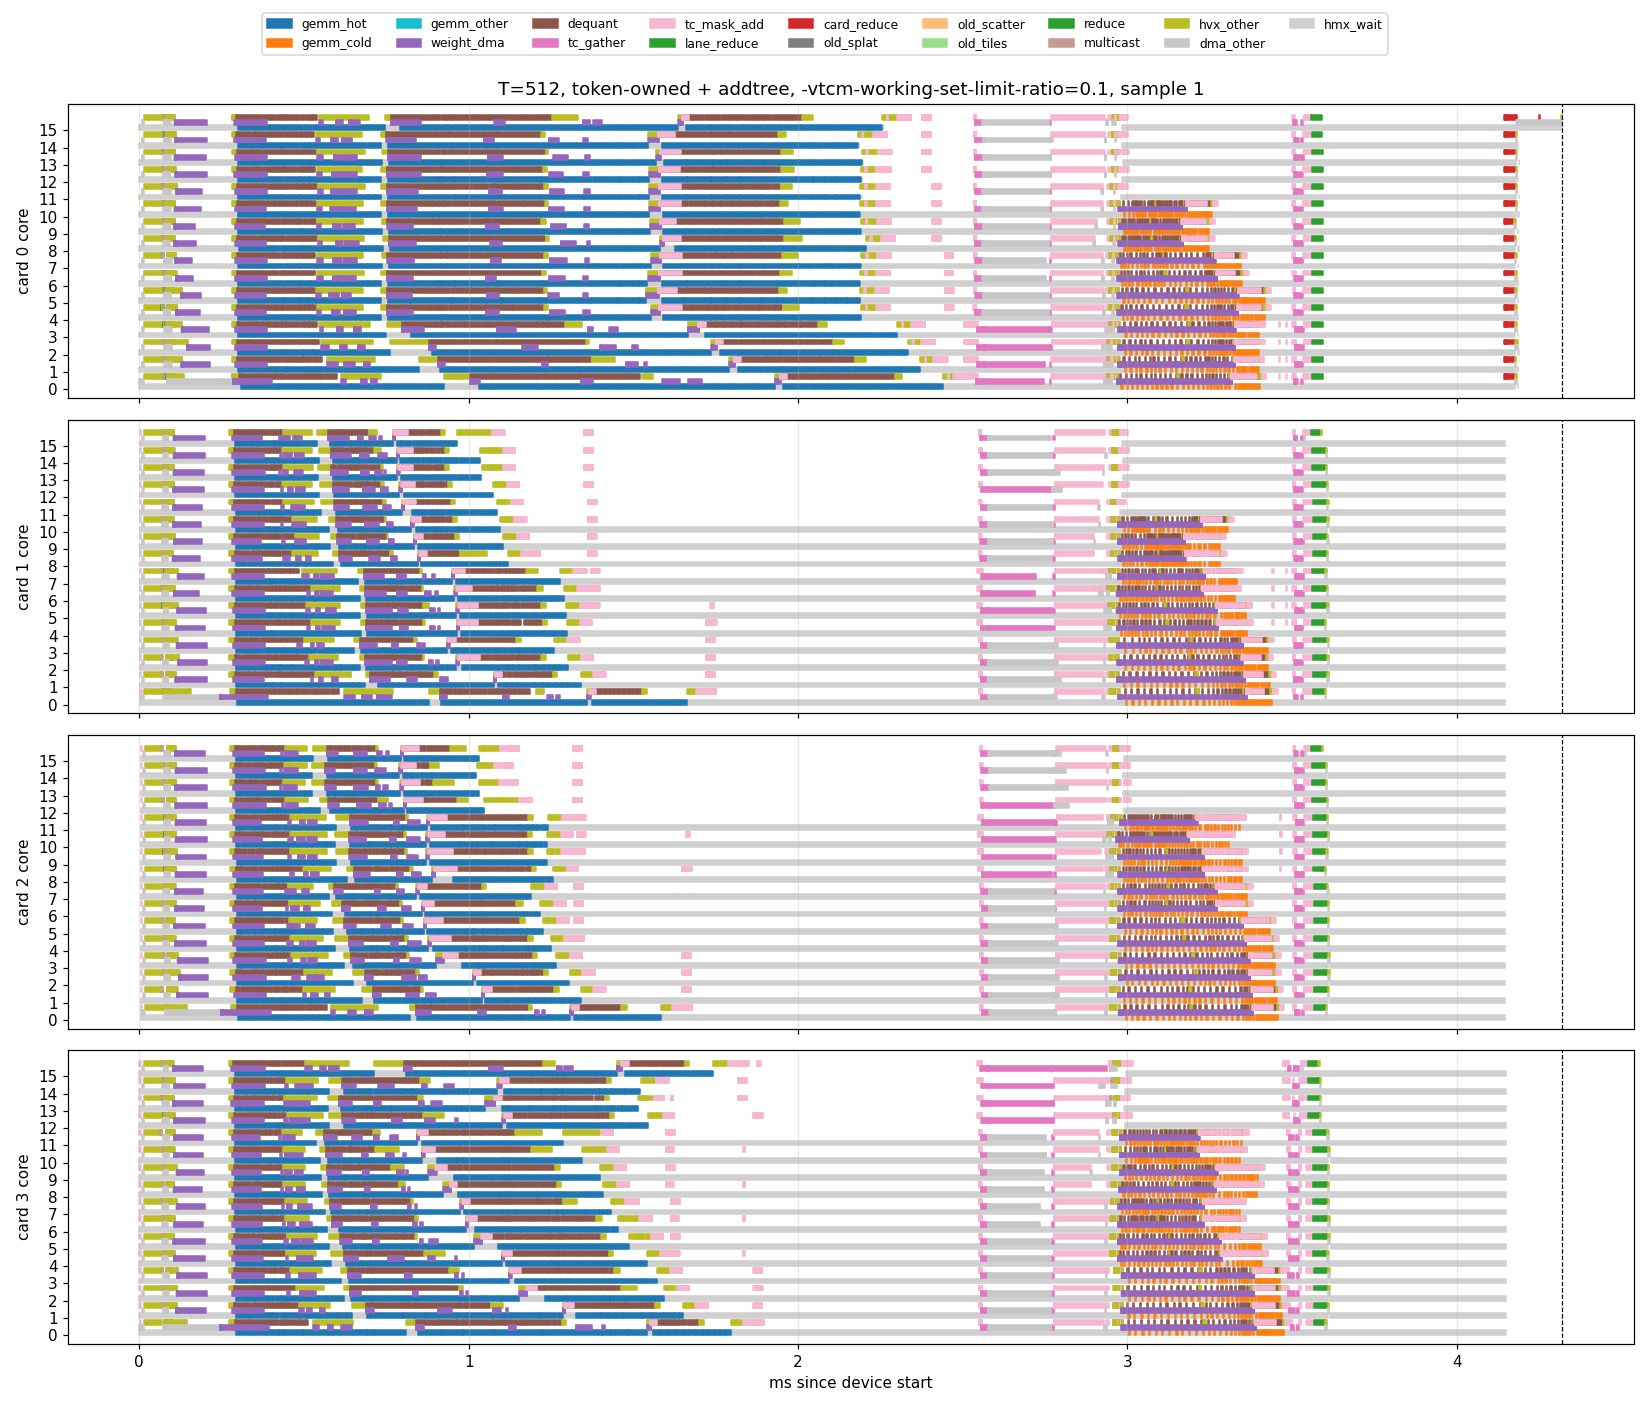
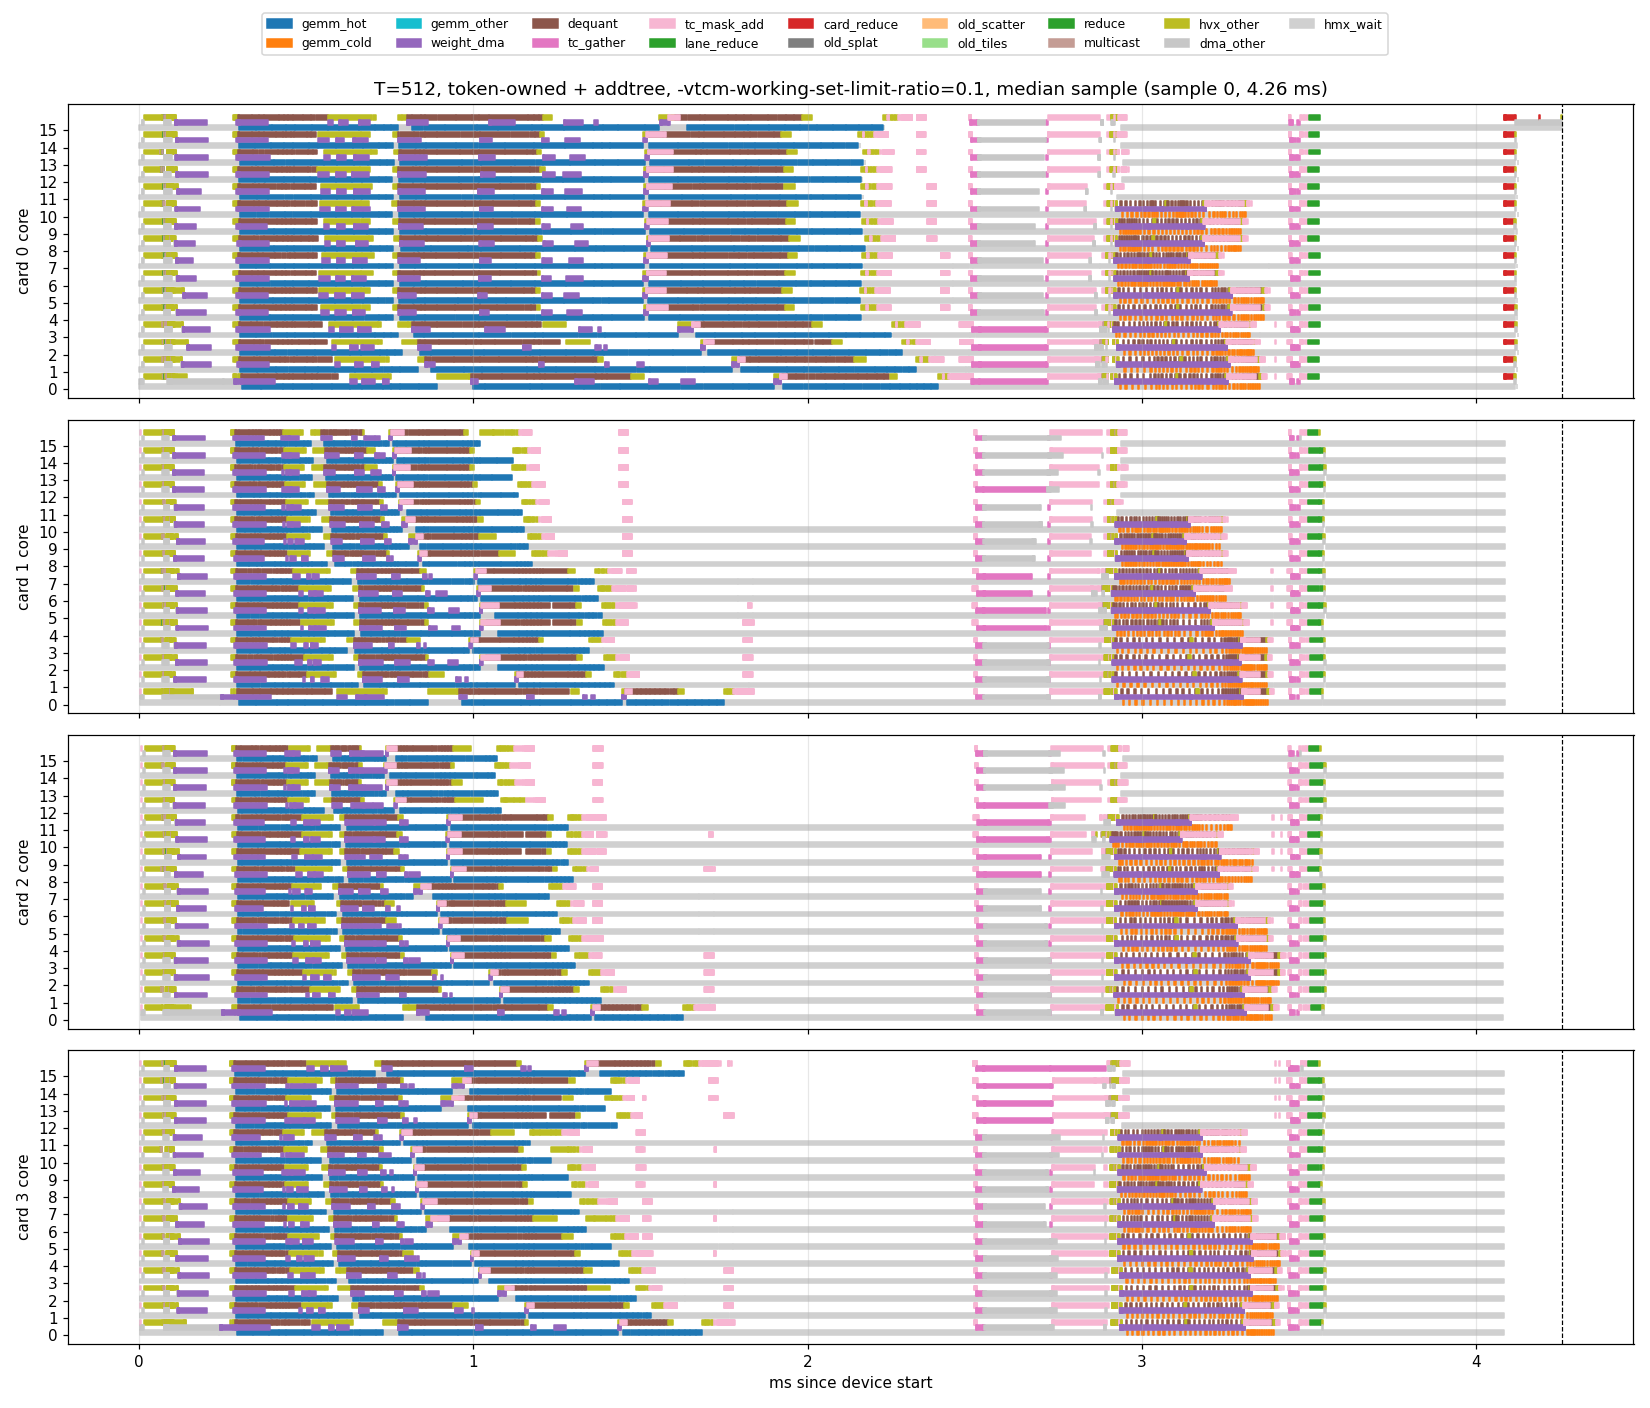
Final-combine write-up: every method described in detail, closing section on why concentration on card 0 only hurts the elementwise form, median-sample figures

diff --git a/github_pack/FINAL_COMBINE_16CORE.md b/github_pack/FINAL_COMBINE_16CORE.md
@@ -154,7 +154,7 @@ only three things can reduce it:
 3. Topology: each card receives a quarter of the tokens (reduce-scatter), 1.5 MiB and about 0.13 ms per card. Both the
    original README (3.14) and this round saw the compiler collapse it back onto card 0; it needs compiler support.
 
-## 8. Attempts to remove the hot-stage side effect (2026-09-26, afternoon)
+## 7. Attempts to remove the hot-stage side effect (2026-09-26, afternoon)
 
 Every untested item of the table in Section 5 was tried (T=512, device, median sample; `scripts/fc_compare.py`):
 
@@ -176,11 +176,11 @@ Status: addtree remains the best usable variant (-12% host latency). Getting bot
 stage needs a compiler-side way to place reduction inputs in DDR or reuse intermediate buffers; no graph-level expression
 is left to try.
 
-Figures (T=512, sample 1): `figures/T512_fc_chain_cores.png`, `figures/T512_fc_tree_cores.png`, `figures/T512_fc_quarters_cores.png`,
+Figures (T=512; rev and vtcm 0.1 show the median-device-time sample, the others sample 1): `figures/T512_fc_chain_cores.png`, `figures/T512_fc_tree_cores.png`, `figures/T512_fc_quarters_cores.png`,
 `figures/T512_fc_addtree_vtcm0.5_cores.png`, `figures/T512_fc_addtree_vtcm0.25_cores.png`, `figures/T512_fc_addtree_vtcm0.1_cores.png`,
 plus the earlier `T512_fc_rev/half/tileadd32/stagesplit_cores.png`.
 
-## 9. The five variants kept: what each optimizes and what to look for (T=512, sample 1)
+## 8. The five variants kept: what each optimizes and what to look for (T=512; each figure shows the sample with the median device time, matching the numbers in the table)
 
 Reading: x axis in ms, four panels are the four cards, one row per core; red is the final sum on card 0, blue the hot stage, grey waits.
 
@@ -232,7 +232,121 @@ Reading: x axis in ms, four panels are the four cards, one row per core; red is 
 
 ![vtcm 0.1 (device 4.26 ms)](figures/T512_fc_addtree_vtcm0.1_cores.png)
 
-## 7. Reproduction
+## 9. Every method in detail
+
+All methods start from the same point: the token-owned graph (3.13), where each card's local reduction produces `to_partials`
+of shape [4, T, 2048] with axis 0 = card. Only the step "add the four into one" is changed; everything else is untouched.
+Compiler behaviour comes from the QPC op inventory (`scripts/fc_inventory.py`), times from the instrumented profiles
+(`profile/F_T512_fc_*`, median sample) and same-session host timing (`timing/S11b_fc*.json`, `timing/S12_chain*.json`).
+
+### 9.1 token-owned (original)
+
+- Graph: `to_partials` cut into 16 token tiles, each an `Einsum('dth->th')`, then Concat to [T, 2048].
+- Compiler: each Einsum is a "sum over the card axis" and gets the cross-card collective template: the three incoming shares land
+  on cores 1, 2, 3 of card 0, each does one reduce-add, multicasts to core 0, which does two more. The template always uses these
+  4 cores; all 16 tiles share core 0 as the merge point.
+- Profile: the 16 tiles run back to back from 3.135 to 4.162 ms, 73 us each; cores 1-3 are busy only 36 us per tile and then wait
+  for core 0; the other 12 cores wait throughout. The partials are issued at 3.136 ms and fully present by 3.67 ms; the later
+  tiles run on data already there. Hot stage ends at 1.99 ms.
+- Conclusion: of the 1.23 ms tail, 1.03 ms is serial compute with the transfer hidden beneath. Device 4.36, host 5.57 ms.
+
+### 9.2 addtree (best)
+
+- Graph: `p_c = Squeeze(Slice(to_partials, c))`, `out = (p0 + p1) + (p2 + p3)`, three elementwise Adds.
+- Compiler: an elementwise Add is not a collective; it is split by rows over cores: 48 `elementadd` ops (3 Adds x 16 cores), all
+  on card 0, no multicast; the inputs arrive by three P2P sends of 2 MiB each.
+- Profile: the adds take 4.114-4.122 ms, 8 us in total. Before them, 3.59-4.11 ms, all four cards are idle: the 6 MiB transfer.
+  Card 0's hot stage ends at 2.42 ms (was 1.99): every op uniformly about twice as slow with unchanged structure, weight-DMA waits
+  doubled; cards 1-3's hot stages unchanged, but their cold stage shifts 0.45 ms later behind card 0.
+- Conclusion: tail 0.71 ms (0.53 link + 0.17 output write), hot stage pays 0.4 ms; device 4.29, host 4.91 ms (-12%).
+
+### 9.3 tileadd (16 tiles) and tileadd32 (32 tiles)
+
+- Graph: 16 (or 32) token tiles, each (p0+p1)+(p2+p3), then Concat.
+- Compiler: each tile's Adds are still row-split: 768 (or 1536) elementadds, all on card 0; with 32 tiles the sending cards
+  (1-3) gain 32 `aiccopysamevtcm2d` slice copies each, with 16 tiles none.
+- Profile: same shape as addtree: 16-core red dots, link blank, hot stage 2.39 / 2.56 ms.
+- Conclusion: tiling does not reduce the intermediates materialized at once; the side effect is unchanged. 16 tiles: device 4.21,
+  host 5.14 (-8%); 32 tiles: device 4.39.
+
+### 9.4 rev (reversed operands)
+
+- Graph: `(p3 + p2) + (p1 + p0)`.
+- Compiler: inventory identical to addtree; root still card 0.
+- Conclusion: operand order does not steer placement; device 4.25, hot stage 2.37.
+
+### 9.5 half (two halves)
+
+- Graph: rows 0-255 and 256-511 as two addtrees, Concat.
+- Compiler: 96 elementadds, all on card 0.
+- Conclusion: as addtree; device 4.46, hot stage 2.57.
+
+### 9.6 addtree16 (fp16 partials)
+
+- Graph: addtree on the 3.14 `to_fp16` graph (partials cast to fp16 first).
+- Profile: P2P still 6 MiB, so the partials are already fp16 in this compiler and the Cast is a no-op; the gap is still 0.53 ms.
+- Conclusion: same bytes, same time; host 5.19 ms.
+
+### 9.7 stagesplit (hot-stage partial sent early)
+
+- Graph: the local reduction split into hot and cold parts (`to_partials_s0`, `to_partials_s1`), each with its own addtree, then
+  one more Add. The hot part can be sent as soon as the hot stage ends.
+- Compiler: two parts of 6 MiB; 112 elementadds totalling 14 MiB (addtree: 48, 6 MiB); the DDR-to-TCM `aiccopytovtcm` ops go from
+  1 (2 MiB) in addtree to 17 (4 MiB), i.e. part of the add inputs is staged through DDR.
+- Profile: hot stage back at 2.06 ms; the hot part is sent at 2.68-3.17 ms, overlapping cards 1-3's cold stage, and added on card 0
+  at 3.21 ms; but card 0's cold stage is pushed to 3.27 ms (was 2.51), the other cards wait for card 0 in the stage-1 index exchange
+  and all end near 3.8 ms; the cold part's 6 MiB then waits another 0.53 ms.
+- Conclusion: the hot stage escapes because 12 MiB exceeds what the compiler puts in TCM and goes through DDR; the price is twice
+  the bytes and a stalled cold stage on the receiving card. Device 4.50.
+
+### 9.8 chain (tile-to-tile data dependency)
+
+- Graph: 16 elementwise tiles; tile k+1's p0 first adds "row 0 of tile k's output x 1e-5 x 1e-5" (exactly 0 in fp16), a real
+  dependency.
+- Compiler: the dependency survives (480 mulsplat, 255 multicast, 240 broadcast-add ops, all on card 0); 768 elementadds still on
+  the 16 cores of card 0.
+- Profile: the tile adds start at 3.760 ms and follow every 34 us, exactly the link time for 384 KiB, so the add is fully hidden
+  under the transfer; but the hot stage ends at 2.56 ms, later than addtree.
+- Conclusion: an ordering constraint does not change the compiler's static allocation; "landing-buffer reuse" is not the cause of
+  the side effect. Device 4.40, host 5.33 ms.
+
+### 9.9 compiler option -vtcm-working-set-limit-ratio 0.5 / 0.25 / 0.1
+
+- Graph: addtree unchanged.
+- Compiler: the inventories of all three values are op-for-op identical to the build without the option.
+- Profile: hot stage 2.39 / 2.46 / 2.39 ms, device 4.29 / 4.33 / 4.26, inside addtree's sample range.
+- Conclusion: the option does not govern the placement of these buffers.
+
+### 9.10 tree (hierarchical)
+
+- Graph: `Slice(lanes 0..1)` and `Slice(lanes 2..3)`, each in 16 `Einsum('dth->th')` tiles, then an elementwise add per tile.
+- Compiler: the 96 reduce-adds (20 MiB) and 512 multicasts (11.8 MiB) of both Einsum groups are all on card 0, plus 256 per-tile
+  elementadds; nothing lands on card 2.
+- Profile: the two chains run serially on cores 0-1 of card 0, 1.5 ms busy each in 2.2 ms windows, roughly one after the other;
+  hot stage 1.98 ms, normal.
+- Conclusion: the root never leaves card 0 and the tail doubles to 2.41 ms; device 5.54, the slowest. It shows that Einsum-based
+  forms do not squeeze the hot stage.
+
+### 9.11 quarters (four-root attempt)
+
+- Graph: four independent addtrees on quarter row ranges, the q-th starting its operands from p_q.
+- Compiler: 192 elementadds, all on card 0.
+- Conclusion: root still card 0; device 4.33, hot stage 2.49.
+
+### 9.12 sum, treduce (forms not adopted)
+
+- Graph: `Sum(p0, p1, p2, p3)`; `ReduceSum(Transpose(to_partials, [1,0,2]), axis=1)`.
+- Compiler: both have the identical inventory: 4 `aicbatchedreduceadd` ops in TCM (16 MiB) plus 1 reduce-add in DDR (2 MiB), with
+  24 MiB of DDR round-trip copies; still the 4-core template, and one more pass through DDR than the original.
+- Conclusion: same family as the original or worse; not profiled.
+
+### 9.13 send only nonzero rows (not run)
+
+- In each card's partial only the rows of tokens with an expert on that card are nonzero. A static graph cannot express an
+  input-dependent row count; with the current hot/cold placement a token touches 3.8 cards on average, so at most 7% of the bytes
+  could be dropped (39% on the sorted layout, which is 0.7 ms slower under the flag). Any gain requires co-design with placement.
+
+## 10. Reproduction
 
 ```
 scripts/make_final_combine.py combine/T512_hc_296_32_tokenowned combine/T512_to_fc_addtree addtree     # or tileadd [N] | rev | half | stagesplit | sum | treduce
@@ -245,3 +359,30 @@ scripts/fc_compare.py                                                           
 
 Data: `timing/S11b_fc*.json` (timing), `profile/F_T*_fc_*` (traces, per-core CSVs, analysis), `inventory/F_T512_fc_*`
 (compile-time op inventories), `combine/T*_to_fc_*` (graphs).
+
+## 11. Why concentrating the results on card 0 was harmless before and hurts now
+
+Both forms concentrate the data on card 0; the difference is how the compiler allocates buffers for them.
+
+**The original form (Einsum tiles) goes through the collective-reduction template and streams.** The compiler treats each tile as
+one cross-card reduction: the three incoming pieces (128 KiB each) land in one fixed small buffer, 4 cores add them, a 128 KiB result
+is written, and the next tile reuses the same buffer. At any moment card 0's TCM holds one tile's data, about 384 KiB in and 128 KiB
+out; the 6 MiB are never resident at once. The reuse is managed inside the template; the graph does not have to express it.
+
+**The elementwise form goes through the ordinary tensor-op path and is whole-tensor.** To the compiler Slice, Squeeze and Add are
+plain tensor ops; every intermediate (the [512, 2048] slices, the two partial sums, the output) is a complete buffer with its own TCM
+address assigned at compile time and reserved for the whole layer. Four slices (8 MiB) plus sums and output (6 MiB) must coexist.
+A tile-to-tile dependency (chain) only changes the execution order, not the "one address per intermediate" allocation, so it does not
+help; neither do smaller tiles (tileadd, 32 tiles, half) nor the compiler option.
+
+**The direct evidence is the tree variant.** It also concentrates everything on card 0, as two Einsum chains, yet its hot stage is
+completely normal (1.98 ms); only its tail is longer because it is serial. Same concentration, different form, one hot stage normal
+and one squeezed: what matters is not "concentration" but "whether the compiler materializes the intermediates whole in TCM".
+stagesplit confirms it from the other side: its 12 MiB of intermediates exceed the TCM budget, go to DDR, and its hot stage is normal too.
+
+**So "putting all results on one card pressures the VTCM" can be stated more precisely:** concentration on one card is the
+precondition; the pressure itself comes from the elementwise form making the compiler place about 14 MiB of intermediates statically
+in that card's TCM at once. The original form concentrates just as much, but its template streams through one small reused buffer.
+The two forms each hold one advantage: one saves space but is serial (4 cores, 1.03 ms), the other is parallel but occupies space
+(16 cores, 8 us, 0.4 ms lost in the hot stage). The current compiler offers no expression that is both parallel and streaming, which
+is also why a reduce-scatter (each card receives a quarter: parallel and only 1.5 MiB resident) is worth pursuing on the compiler side.
